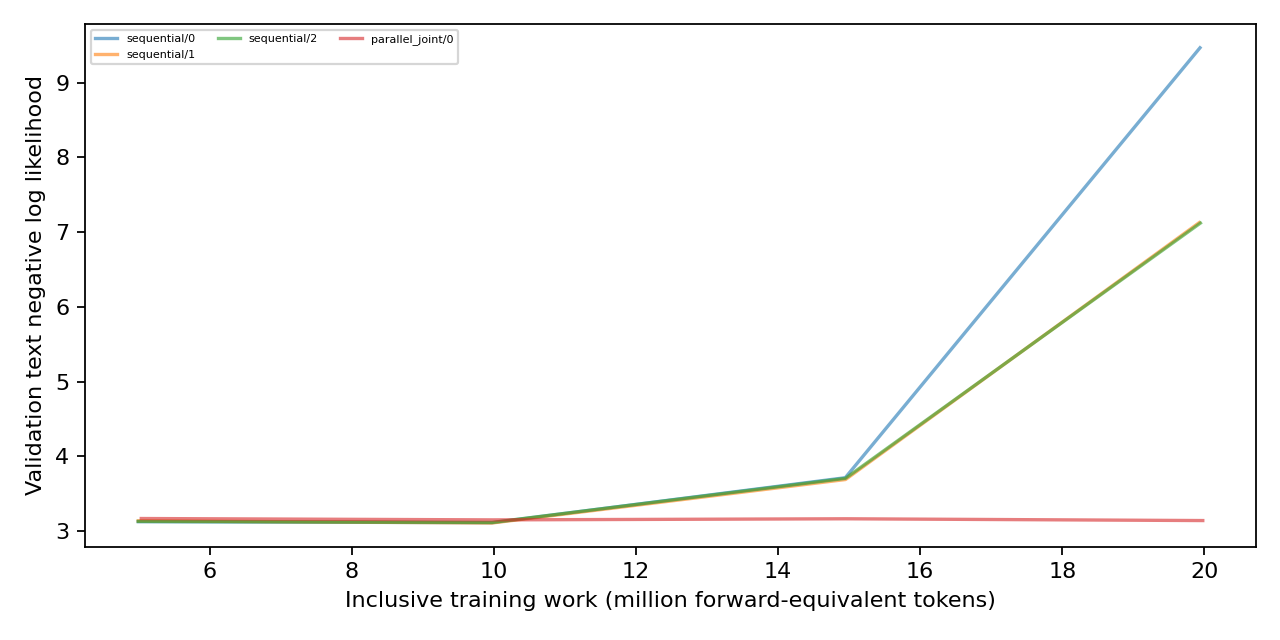
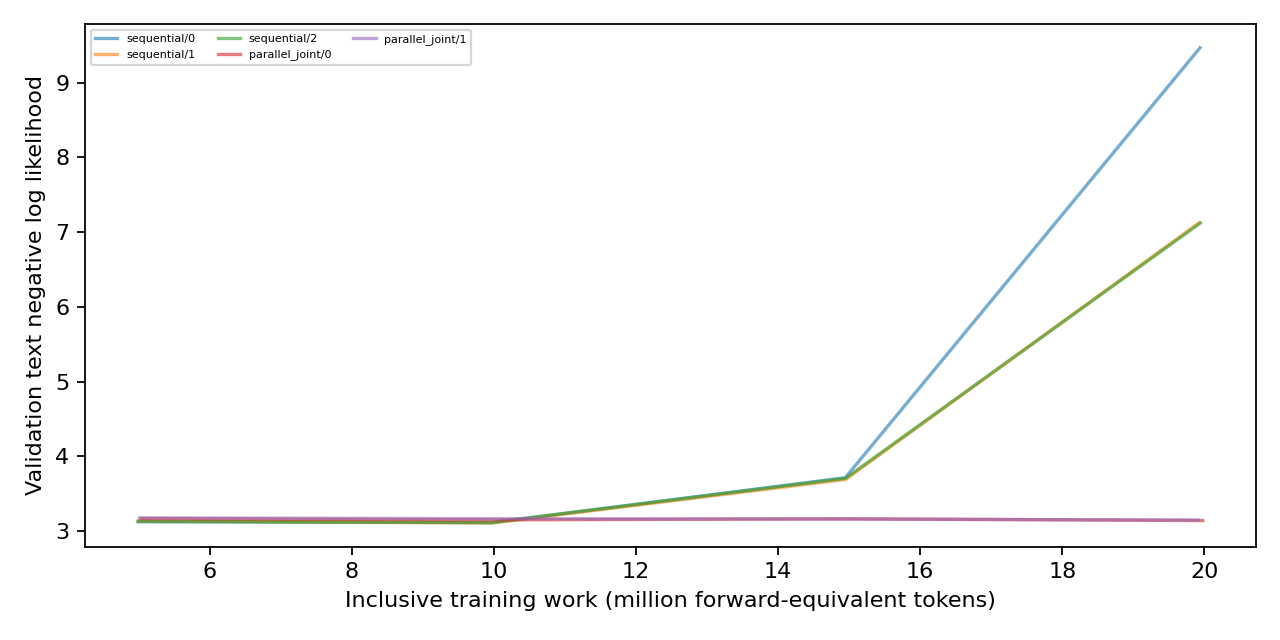
Report verified unified-training pilot progress

Changed region(s): [[0.0938, 0.7812, 0.7188, 0.8125], [0.2812, 0.0312, 0.375, 0.0938], [0.1875, 0.0625, 0.25, 0.125]]

diff --git a/experiments/02_early_checkpoint_joint_objectives/results.md b/experiments/02_early_checkpoint_joint_objectives/results.md
@@ -8,7 +8,7 @@
 | sequential | 1 | complete | 19.928 | 0.2639 [0.2466, 0.2820] | 0.0265 [0.0191, 0.0367] | 7.5458 [7.4961, 7.5963] | 0.5781 [0.5169, 0.6370] / 0.5000 [0.4392, 0.5608] |
 | sequential | 2 | complete | 19.945 | 0.2912 [0.2733, 0.3098] | 0.0235 [0.0166, 0.0332] | 7.4249 [7.3635, 7.4874] | 0.5078 [0.4469, 0.5685] / 0.4414 [0.3819, 0.5027] |
 | parallel_joint | 0 | complete | 19.978 | 0.3481 [0.3292, 0.3674] | 0.0182 [0.0123, 0.0269] | 3.2496 [3.2193, 3.2791] | 0.6484 [0.5881, 0.7043] / 0.6016 [0.5405, 0.6596] |
-| parallel_joint | 1 | pending | unavailable | unavailable | unavailable | unavailable | unavailable |
+| parallel_joint | 1 | complete | 19.917 | 0.3451 [0.3263, 0.3645] | 0.0114 [0.0069, 0.0187] | 3.2442 [3.2150, 3.2729] | 0.6016 [0.5405, 0.6596] / 0.5508 [0.4895, 0.6105] |
 | parallel_joint | 2 | pending | unavailable | unavailable | unavailable | unavailable | unavailable |
 | fixed_joint | 0 | pending | unavailable | unavailable | unavailable | unavailable | unavailable |
 | fixed_joint | 1 | pending | unavailable | unavailable | unavailable | unavailable | unavailable |
@@ -33,7 +33,7 @@ NLL = negative log likelihood; preference raw ordering is the preference endpoin
 
 Intervals: 95% Wilson binary-item score, conditional on each trained model; p-val=n/a (no hypothesis test). Three seeds do not establish universal superiority. Aioli, CHORD (Controllable Harmonization of On- and Off-Policy Reinforcement Learning via Dynamic Weighting), and RPT (Reinforcement Pre-Training) are declared adaptations; exact CHERRY-RL identity remains unresolved.
 
-Complete: 4/24. See `expt_v1/PROTOCOL.md` and the program review reconciliation.
+Complete: 5/24. See `expt_v1/PROTOCOL.md` and the program review reconciliation.
 
 Seed uncertainty, two-stage seed/item intervals, initial-checkpoint changes and all paired comparisons: `expt_v1/analysis.json`. Missing trained seeds remain missing with separate accuracy sensitivity bounds. p-val=n/a throughout; no formal superiority verdict.
 

diff --git a/experiments/00_program/FINAL_STATUS.md b/experiments/00_program/FINAL_STATUS.md
@@ -1,6 +1,6 @@
 # Full-program status
 
-Verified cells: 28/48; failed: 0; interrupted: 0; pending: 20; unstarted at global bound: 0.
+Verified cells: 29/48; failed: 0; interrupted: 0; pending: 19; unstarted at global bound: 0.
 
 Full-program execution is incomplete. Required plan and implementation findings are reconciled; see acceptance.json.
 Results and uncertainty are in each experiment folder; no universal-superiority claim.
